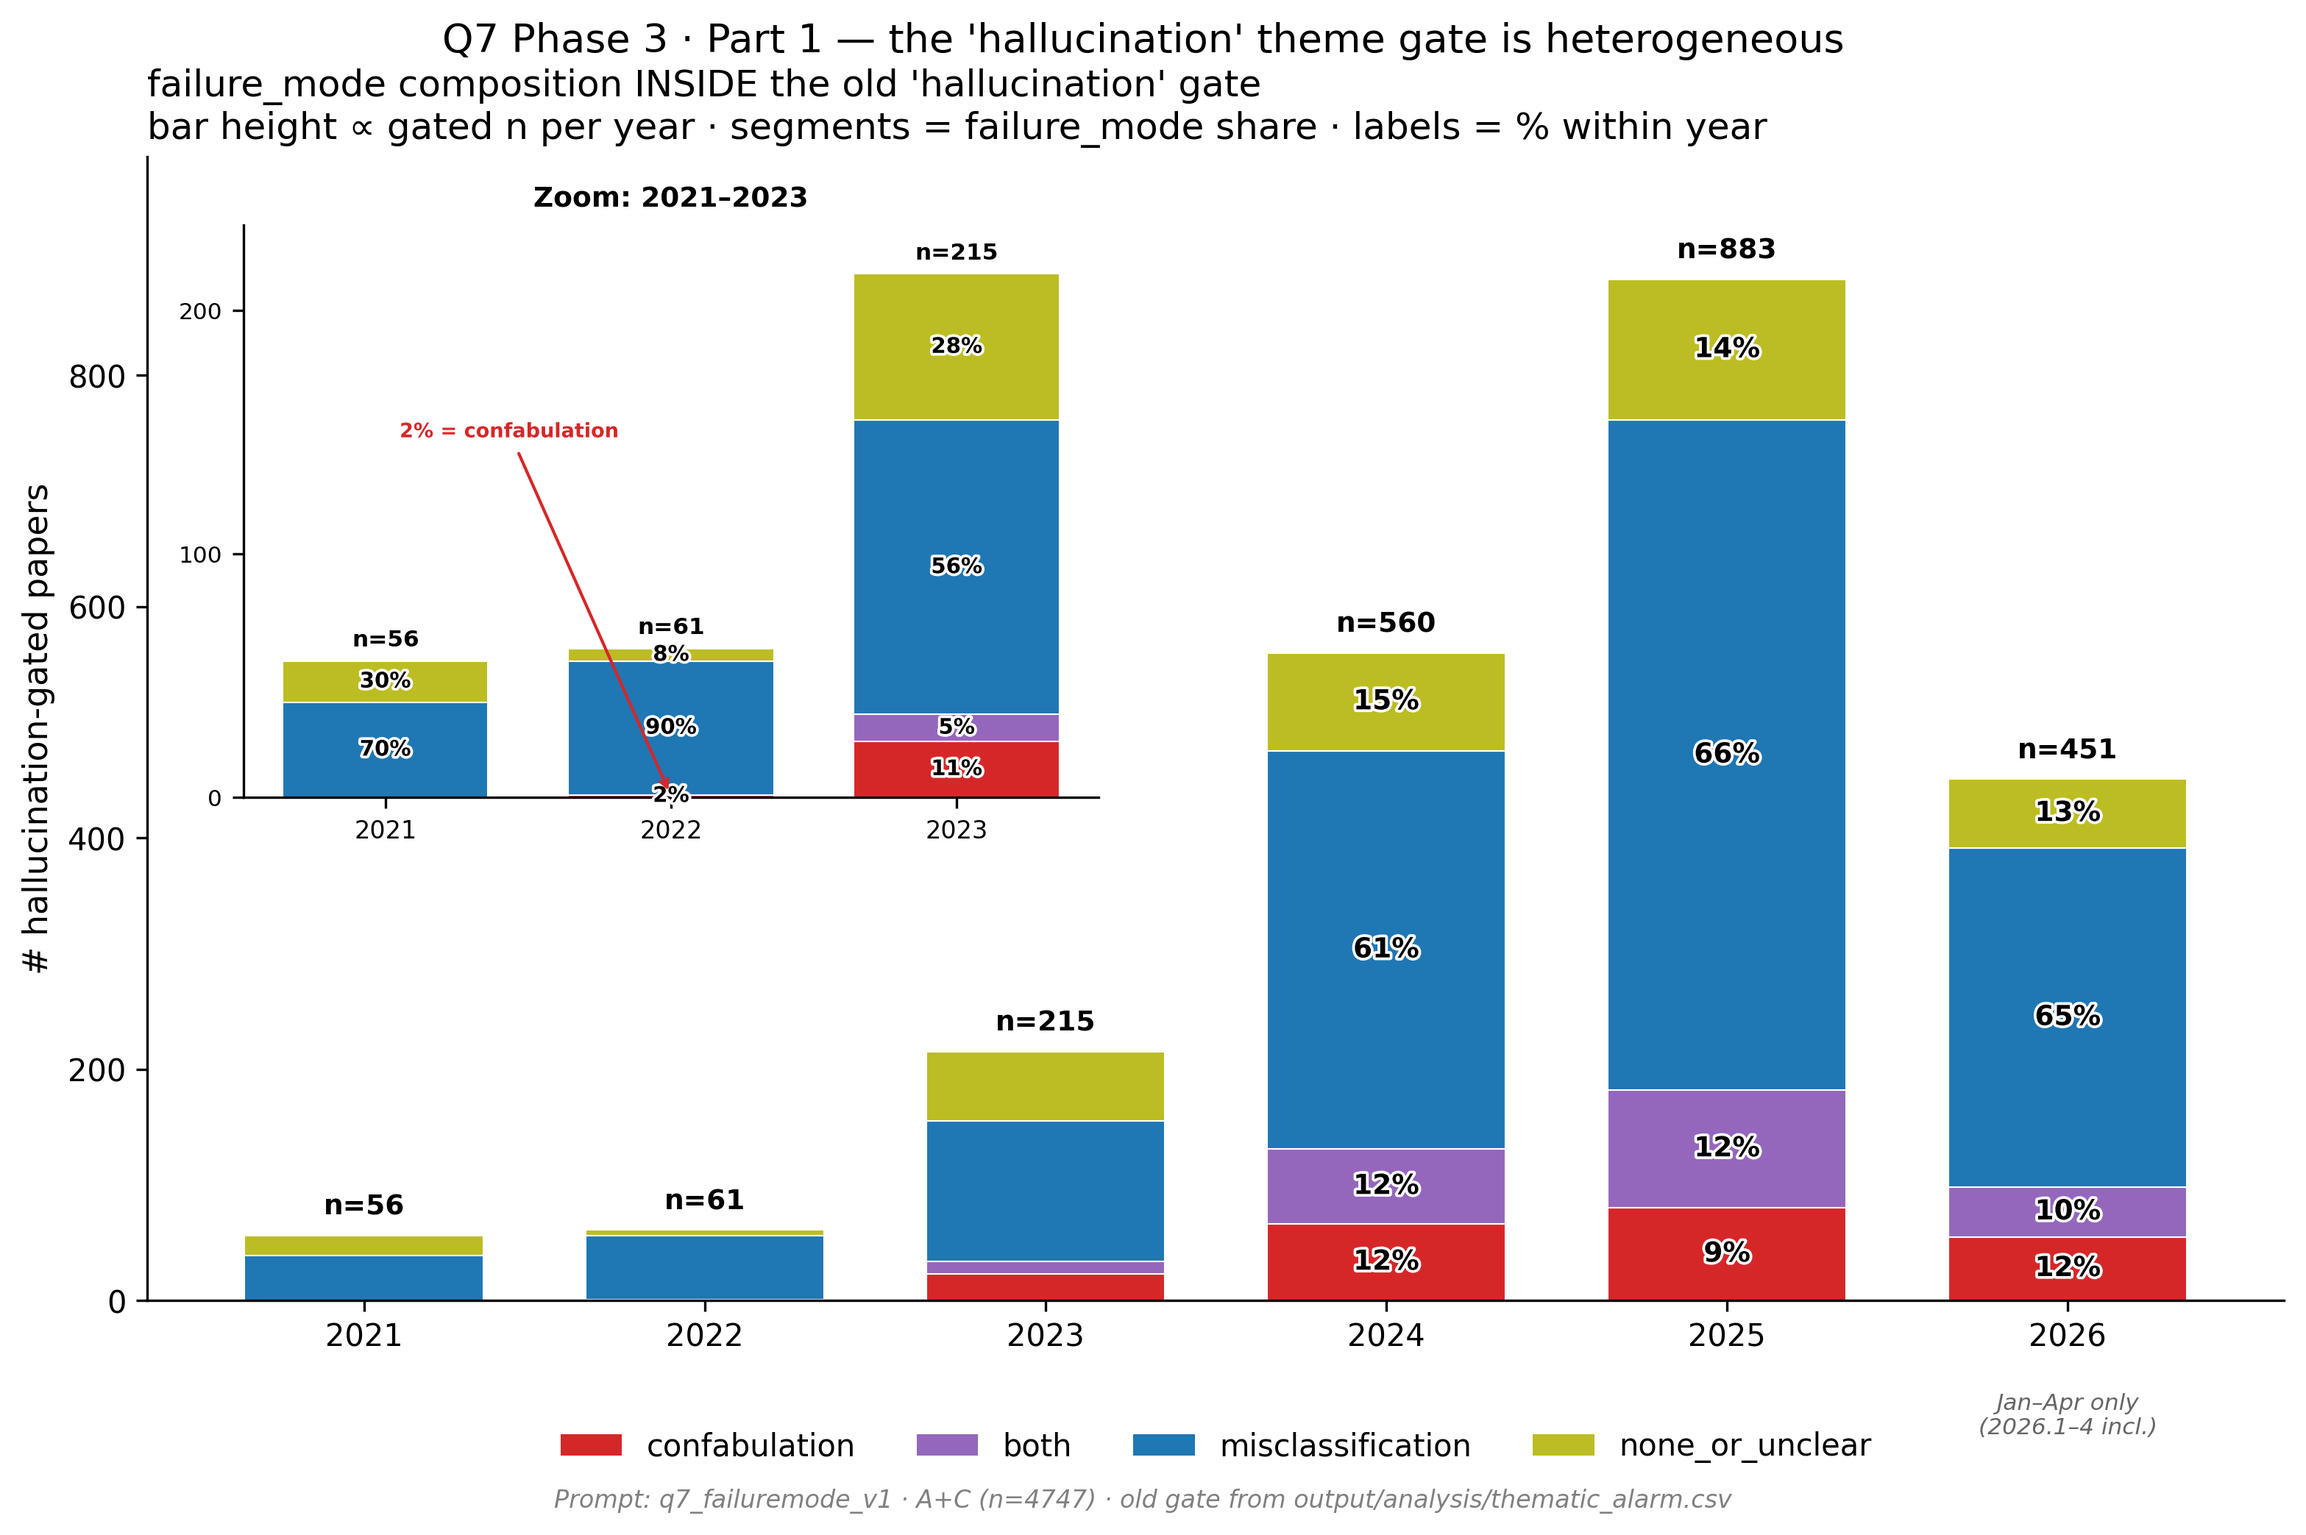
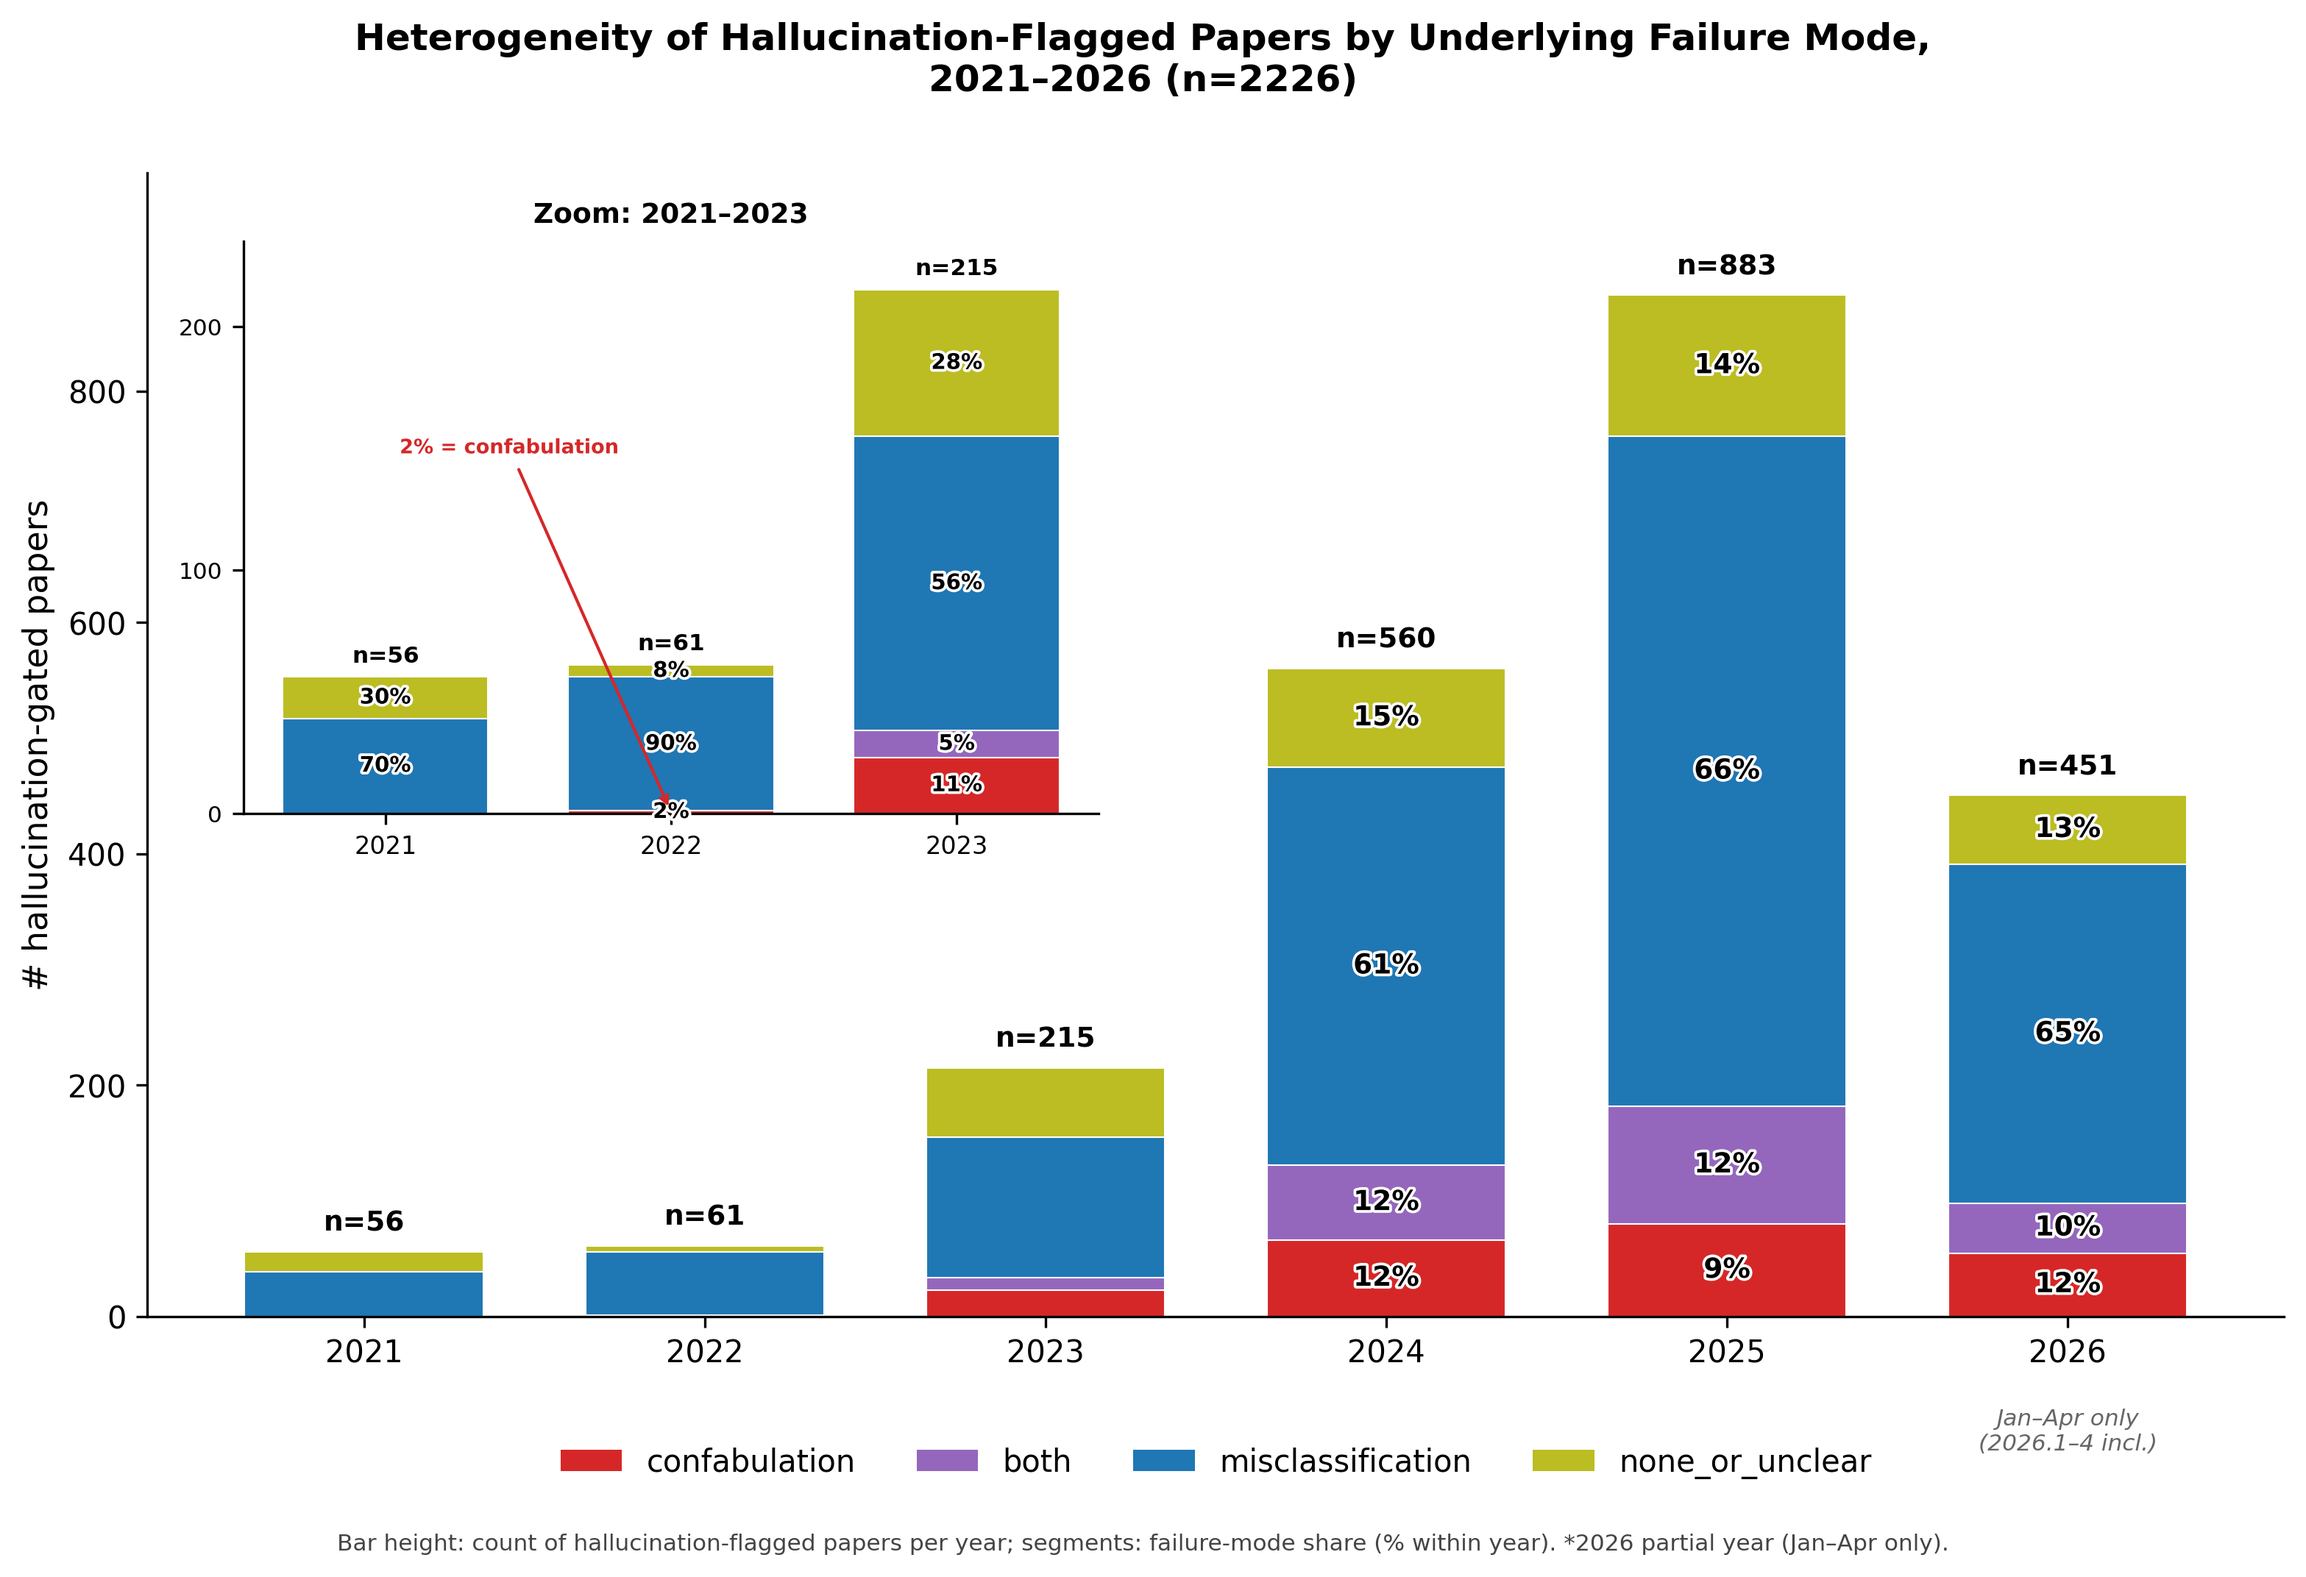
Fix q7_gate_composition title n and regenerate with correct gate data
- Title bug: used len(ac) (total A+C corpus) instead of year_tot.sum()
  (actual hallucination-gated total) — fixed to cite the correct n
- Root cause of a deeper issue found in the process: this worktree's
  output/analysis/thematic_alarm.csv was a stale 3,021-row snapshot
  (committed early in the project) covering only ~48% of the current
  5,159-row A+C corpus by pmid, silently undercounting the gate. The
  parent checkout holds the complete 5,161-row file. Regenerated both
  figures using the complete file (temporarily, not altering the
  tracked worktree copy) — confirms n=2,448 (full corpus) / n=2,226
  (abstract-present), matching the original figures and q7_summary.md.
- New title style applied to both: "Heterogeneity of Hallucination-
  Flagged Papers by Underlying Failure Mode, 2021–2026 (n=...)"

diff --git a/q7_phase3_analyses.py b/q7_phase3_analyses.py
@@ -139,9 +139,7 @@ axL.annotate("Jan–Apr only\n(2026.1–4 incl.)", xy=(5, 0), xytext=(0, -30),
              textcoords="offset points", ha="center", va="top", fontsize=7.5,
              color="0.4", style="italic", annotation_clip=False)
 axL.set_ylim(0, YTOP); axL.set_ylabel("# hallucination-gated papers", fontsize=11)
-axL.set_title("failure_mode composition INSIDE the old 'hallucination' gate\n"
-              "bar height ∝ gated n per year · segments = failure_mode share · labels = % within year",
-              fontsize=12, loc="left")
+axL.set_title("")
 for s in ("top","right"): axL.spines[s].set_visible(False)
 
 # ── inset: zoom on the small early years so their composition is readable ─────
@@ -180,11 +178,17 @@ for s in ("top","right"): ins.spines[s].set_visible(False)
 handles = [Patch(facecolor=FM_COL[fm], label=fm) for fm in order]
 axL.legend(handles=handles, fontsize=10, frameon=False, ncol=4,
            loc="upper center", bbox_to_anchor=(0.5, -0.09))
-fig.suptitle("Q7 Phase 3 · Part 1 — the 'hallucination' theme gate is heterogeneous",
-             fontsize=13, y=0.965)
-fig.text(0.5, 0.03,
-         "Prompt: q7_failuremode_v1 · A+C (n=%d) · old gate from output/analysis/thematic_alarm.csv"%len(ac),
-         ha="center", fontsize=8, style="italic", color="gray")
+fig.suptitle(
+    "Heterogeneity of Hallucination-Flagged Papers by Underlying Failure Mode,\n"
+    "2021–2026 (n=%d)" % int(year_tot.sum()),
+    fontsize=12, fontweight="bold", y=0.975,
+)
+fig.text(
+    0.5, 0.01,
+    "Bar height: count of hallucination-flagged papers per year; "
+    "segments: failure-mode share (% within year). *2026 partial year (Jan–Apr only).",
+    ha="center", va="bottom", fontsize=7.5, color="#444444",
+)
 f1 = os.path.join(FIGDIR, f"q7_gate_composition{SUF}.png")
 fig.savefig(f1, dpi=300, bbox_inches="tight"); plt.close(fig)
 print(f"\nSaved → {f1}")
